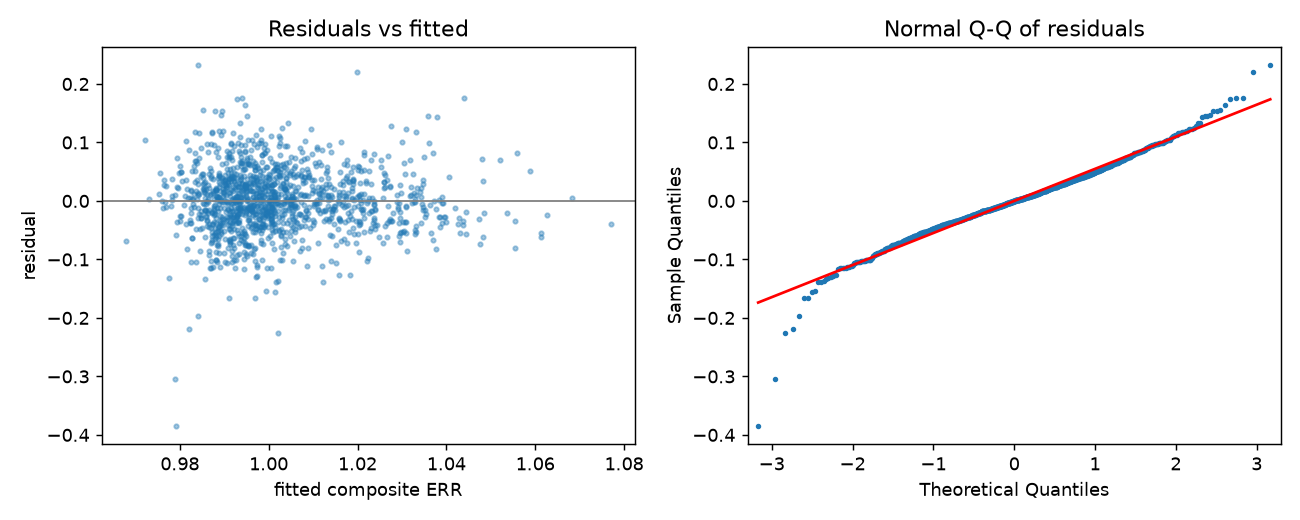
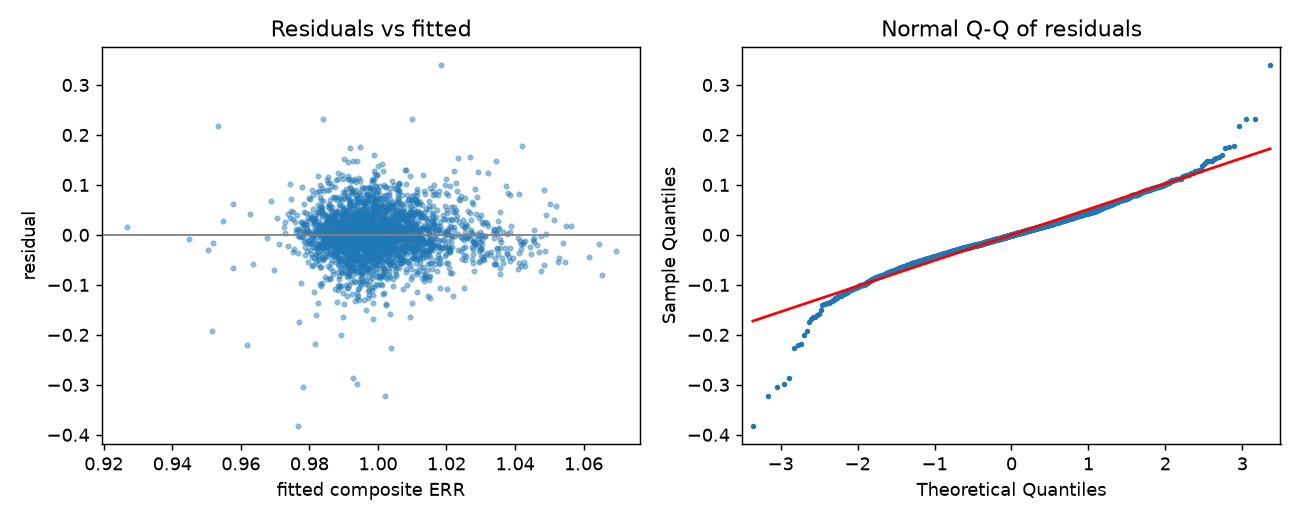
Rerun ERR model with teaching fix

diff --git a/docs/err_model_report.md b/docs/err_model_report.md
@@ -4,111 +4,115 @@ _Generated by `python -m analysis.err_model` from the live data in data/hrrp.duc
 
 ## Data
 
-- Outcome: composite ERR (discharge-weighted average of the six FY2026 ERRs). Mean 1.0023, SD 0.0570.
+- Outcome: composite ERR (discharge-weighted average of the six FY2026 ERRs). Mean 1.0001, SD 0.0532.
 
-- Hospitals with a composite ERR: 2,937. Used in the models (no missing predictors): **1,301**.
+- Hospitals with a composite ERR: 2,937. Used in the models (no missing predictors): **2,576**.
 
-- Missing values that removed hospitals: log2_beds 10, teaching 1,592, ownership 0, dual_10pp 0, income_10k 44, age65_5pp 44, star_rating 328.
+- Missing values that removed hospitals: log2_beds 10, teaching 10, ownership 0, dual_10pp 0, income_10k 44, age65_5pp 44, star_rating 328.
 
 - Effects are shown as **% of expected readmissions** (an ERR change of 0.01 = 1%).
 
 ## Main model (OLS, HC3 robust standard errors, without star rating)
 
-R² = 0.074, adjusted R² = 0.069, n = 1,301.
+R² = 0.069, adjusted R² = 0.066, n = 2,576.
 
 | term | coef | ci_low | ci_high | p_value |
 |---|---|---|---|---|
-| teaching hospital | 0.4905 | 0.4727 | 0.5083 | 0.0000 |
-| For-profit (vs nonprofit) | 0.0262 | 0.0183 | 0.0340 | 0.0000 |
-| Government (vs nonprofit) | -0.0031 | -0.0117 | 0.0055 | 0.4802 |
-| Physician-owned (vs nonprofit) | 0.0069 | -0.0343 | 0.0482 | 0.7413 |
-| beds (per doubling) | -0.0003 | -0.0033 | 0.0028 | 0.8668 |
-| dual-eligible share (+10 pts) | 0.0080 | 0.0058 | 0.0102 | 0.0000 |
-| county income (+$10k) | -0.0014 | -0.0028 | 0.0001 | 0.0642 |
-| county 65+ share (+5 pts) | 0.0027 | -0.0017 | 0.0070 | 0.2253 |
+| teaching hospital | 0.0000 | -0.0049 | 0.0049 | 0.9997 |
+| For-profit (vs nonprofit) | 0.0175 | 0.0123 | 0.0227 | 0.0000 |
+| Government (vs nonprofit) | 0.0006 | -0.0047 | 0.0060 | 0.8119 |
+| Other (vs nonprofit) | -0.0638 | -0.1104 | -0.0173 | 0.0072 |
+| Physician-owned (vs nonprofit) | -0.0211 | -0.0708 | 0.0285 | 0.4040 |
+| beds (per doubling) | 0.0024 | 0.0005 | 0.0044 | 0.0129 |
+| dual-eligible share (+10 pts) | 0.0079 | 0.0063 | 0.0094 | 0.0000 |
+| county income (+$10k) | -0.0014 | -0.0023 | -0.0004 | 0.0056 |
+| county 65+ share (+5 pts) | 0.0013 | -0.0011 | 0.0038 | 0.2866 |
 
 
 ### In plain English
 
-- Holding the other factors fixed, being a teaching hospital (any residents) vs not goes with readmissions about 49.05% higher relative to expected (95% CI +47.27% to +50.83%; clearly different from zero).
-- Holding the other factors fixed, For-profit ownership (vs nonprofit) goes with readmissions about 2.62% higher relative to expected (95% CI +1.83% to +3.40%; clearly different from zero).
-- Holding the other factors fixed, Government ownership (vs nonprofit) goes with readmissions about 0.31% lower relative to expected (95% CI -1.17% to +0.55%; not distinguishable from zero).
-- Holding the other factors fixed, Physician-owned ownership (vs nonprofit) goes with readmissions about 0.69% higher relative to expected (95% CI -3.43% to +4.82%; not distinguishable from zero).
-- Holding the other factors fixed, twice as many beds goes with readmissions about 0.03% lower relative to expected (95% CI -0.33% to +0.28%; not distinguishable from zero).
-- Holding the other factors fixed, a 10-percentage-point higher share of dual-eligible (Medicare + Medicaid) patients goes with readmissions about 0.80% higher relative to expected (95% CI +0.58% to +1.02%; clearly different from zero).
-- Holding the other factors fixed, $10,000 higher county median household income goes with readmissions about 0.14% lower relative to expected (95% CI -0.28% to +0.01%; not distinguishable from zero).
-- Holding the other factors fixed, a 5-percentage-point higher share of county residents aged 65+ goes with readmissions about 0.27% higher relative to expected (95% CI -0.17% to +0.70%; not distinguishable from zero).
+- Holding the other factors fixed, being a teaching hospital (any residents) vs not goes with readmissions about 0.00% higher relative to expected (95% CI -0.49% to +0.49%; not distinguishable from zero).
+- Holding the other factors fixed, For-profit ownership (vs nonprofit) goes with readmissions about 1.75% higher relative to expected (95% CI +1.23% to +2.27%; clearly different from zero).
+- Holding the other factors fixed, Government ownership (vs nonprofit) goes with readmissions about 0.06% higher relative to expected (95% CI -0.47% to +0.60%; not distinguishable from zero).
+- Holding the other factors fixed, Other ownership (vs nonprofit) goes with readmissions about 6.38% lower relative to expected (95% CI -11.04% to -1.73%; clearly different from zero).
+- Holding the other factors fixed, Physician-owned ownership (vs nonprofit) goes with readmissions about 2.11% lower relative to expected (95% CI -7.08% to +2.85%; not distinguishable from zero).
+- Holding the other factors fixed, twice as many beds goes with readmissions about 0.24% higher relative to expected (95% CI +0.05% to +0.44%; weak evidence).
+- Holding the other factors fixed, a 10-percentage-point higher share of dual-eligible (Medicare + Medicaid) patients goes with readmissions about 0.79% higher relative to expected (95% CI +0.63% to +0.94%; clearly different from zero).
+- Holding the other factors fixed, $10,000 higher county median household income goes with readmissions about 0.14% lower relative to expected (95% CI -0.23% to -0.04%; clearly different from zero).
+- Holding the other factors fixed, a 5-percentage-point higher share of county residents aged 65+ goes with readmissions about 0.13% higher relative to expected (95% CI -0.11% to +0.38%; not distinguishable from zero).
 
 ### Does it hold up? (sensitivity checks)
 
 | term | main | by-state clusters | discharge-weighted | with star |
 |---|---|---|---|---|
-| teaching hospital | +49.05% (p=0.000) | +49.05% (p=0.000) | +50.42% (p=0.000) | +52.95% (p=0.000) |
-| For-profit (vs nonprofit) | +2.62% (p=0.000) | +2.62% (p=0.000) | +2.81% (p=0.000) | +1.46% (p=0.000) |
-| Government (vs nonprofit) | -0.31% (p=0.480) | -0.31% (p=0.572) | -0.66% (p=0.294) | -0.79% (p=0.049) |
-| Physician-owned (vs nonprofit) | +0.69% (p=0.741) | +0.69% (p=0.711) | -0.08% (p=0.986) | -0.20% (p=0.921) |
-| beds (per doubling) | -0.03% (p=0.867) | -0.03% (p=0.885) | -0.29% (p=0.527) | -0.08% (p=0.580) |
-| dual-eligible share (+10 pts) | +0.80% (p=0.000) | +0.80% (p=0.000) | +1.00% (p=0.000) | +0.30% (p=0.005) |
-| county income (+$10k) | -0.14% (p=0.064) | -0.14% (p=0.274) | -0.31% (p=0.006) | +0.10% (p=0.153) |
-| county 65+ share (+5 pts) | +0.27% (p=0.225) | +0.27% (p=0.427) | +0.39% (p=0.255) | -0.04% (p=0.831) |
+| teaching hospital | +0.00% (p=1.000) | +0.00% (p=1.000) | -0.27% (p=0.542) | -0.09% (p=0.718) |
+| For-profit (vs nonprofit) | +1.75% (p=0.000) | +1.75% (p=0.001) | +2.43% (p=0.000) | +0.84% (p=0.001) |
+| Government (vs nonprofit) | +0.06% (p=0.812) | +0.06% (p=0.859) | -0.33% (p=0.465) | -0.54% (p=0.032) |
+| Other (vs nonprofit) | -6.38% (p=0.007) | -6.38% (p=0.000) | -7.26% (p=0.015) | -2.52% (p=0.085) |
+| Physician-owned (vs nonprofit) | -2.11% (p=0.404) | -2.11% (p=0.125) | -3.54% (p=0.178) | -1.91% (p=0.409) |
+| beds (per doubling) | +0.24% (p=0.013) | +0.24% (p=0.026) | +0.02% (p=0.943) | +0.16% (p=0.088) |
+| dual-eligible share (+10 pts) | +0.79% (p=0.000) | +0.79% (p=0.000) | +1.04% (p=0.000) | +0.30% (p=0.000) |
+| county income (+$10k) | -0.14% (p=0.006) | -0.14% (p=0.097) | -0.23% (p=0.007) | +0.09% (p=0.046) |
+| county 65+ share (+5 pts) | +0.13% (p=0.287) | +0.13% (p=0.600) | +0.34% (p=0.144) | -0.06% (p=0.616) |
 
 
-- Using Medicare **DSH %** instead of the dual-eligible share: +0.55% per 10 points (p=0.000, n=1,193).
+- Using Medicare **DSH %** instead of the dual-eligible share: +0.55% per 10 points (p=0.000, n=2,267).
 
-- Adding **star rating**: -2.12% per star (p=0.000). Read with care, because star ratings include readmission measures, so part of this is the outcome explaining itself.
+- Adding **star rating**: -1.97% per star (p=0.000). Read with care, because star ratings include readmission measures, so part of this is the outcome explaining itself.
 
 ## How much of the variation does social risk explain?
 
-- Social risk alone (dual share, county income, county 65+ share): R² = **0.045**. Dual-eligible share by itself: R² = 0.039.
+- Social risk alone (dual share, county income, county 65+ share): R² = **0.048**. Dual-eligible share by itself: R² = 0.045.
 
-- Shapley split of the main model's R² (0.074): social risk 0.044 (59%), hospital structure 0.030 (41%).
+- Shapley split of the main model's R² (0.069): social risk 0.046 (66%), hospital structure 0.024 (34%).
 
-- With star rating added (R² 0.206): social risk 0.025, hospital structure 0.021, star rating 0.160.
+- With star rating added (R² 0.195): social risk 0.027, hospital structure 0.016, star rating 0.152.
 
 - So roughly 93% of the variation in composite ERR is **not** explained by any of these factors.
 
 ## Is the linear model missing nonlinearity?
 
-- 5-fold cross-validated R²: linear 0.065 (±0.026), gradient-boosted tree 0.067 (±0.018). If the tree isn't clearly better, the linear model is a fair summary.
+- 5-fold cross-validated R²: linear 0.058 (±0.015), gradient-boosted tree 0.070 (±0.021). If the tree isn't clearly better, the linear model is a fair summary.
 
-Permutation importance (drop in R² when a feature is shuffled):
+Permutation importance on a 25% held-out set (drop in R² when a feature is shuffled):
 
 | feature | importance_r2_drop |
 |---|---|
-| dual_10pp | 0.1576 |
-| income_10k | 0.1533 |
-| log2_beds | 0.1045 |
-| age65_5pp | 0.1012 |
-| ownership_For-profit | 0.0707 |
-| ownership_Government | 0.0013 |
-| ownership_Nonprofit | 0.0009 |
-| teaching | 0.0000 |
+| dual_10pp | 0.0767 |
+| income_10k | 0.0457 |
+| log2_beds | 0.0442 |
+| ownership_For-profit | 0.0295 |
+| age65_5pp | 0.0152 |
+| ownership_Nonprofit | 0.0017 |
+| ownership_Other | 0.0000 |
+| ownership_Physician-owned | 0.0000 |
 
 
 ![Partial dependence](figures/err_tree_partial_dependence.png)
 
 ## Assumption checks (main model)
 
-- **Heteroskedasticity:** Breusch-Pagan p = 0.0571. That's why the standard errors are robust (HC3).
+- **Heteroskedasticity:** Breusch-Pagan p = 1.02e-06. That's why the standard errors are robust (HC3).
 
-- **Functional form:** Ramsey RESET p = 0.0636 (a small p means some curvature is missed; compare with the tree above).
+- **Functional form:** Ramsey RESET p = 0.0212 (a small p means some curvature is missed; compare with the tree above).
 
-- **Residual shape:** skew -0.30, excess kurtosis 3.28. With n = 1,301, inference doesn't depend on normality, but heavy tails mean a few hospitals pull hard.
+- **Residual shape:** skew -0.34, excess kurtosis 4.57. With n = 2,576, inference doesn't depend on normality, but heavy tails mean a few hospitals pull hard.
 
-- **Influential hospitals:** 50 with Cook's distance > 4/n.
+- **Influential hospitals:** 103 with Cook's distance > 4/n.
 
 - **Collinearity (VIF; above about 5 is a concern):**
 
 | term | VIF |
 |---|---|
-| teaching hospital | 1.00 |
-| For-profit (vs nonprofit) | 1.04 |
+| teaching hospital | 1.44 |
+| For-profit (vs nonprofit) | 1.06 |
 | Government (vs nonprofit) | 1.06 |
-| Physician-owned (vs nonprofit) | 1.01 |
-| beds (per doubling) | 1.08 |
+| Other (vs nonprofit) | 1.00 |
+| Physician-owned (vs nonprofit) | 1.02 |
+| beds (per doubling) | 1.48 |
 | dual-eligible share (+10 pts) | 1.05 |
-| county income (+$10k) | 1.03 |
-| county 65+ share (+5 pts) | 1.10 |
+| county income (+$10k) | 1.09 |
+| county 65+ share (+5 pts) | 1.11 |
 
 
 ![OLS diagnostics](figures/err_ols_diagnostics.png)
@@ -117,12 +121,12 @@ Permutation importance (drop in R² when a feature is shuffled):
 
 | condition | n | beds (per doubling) | county 65+ share (+5 pts) | county income (+$10k) | dual-eligible share (+10 pts) | teaching hospital |
 |---|---|---|---|---|---|---|
-| AMI | 1283 | +0.19 | +0.11 | -0.06 | +0.38 | +48.81 |
-| CABG | 779 | -0.54 | +0.57 | -0.65 | +0.18 | +53.55 |
-| COPD | 1293 | +0.21 | +0.20 | +0.01 | +0.47 | +48.29 |
-| Heart failure | 1296 | -0.24 | +0.48 | -0.25 | +0.90 | +49.86 |
-| Hip/knee | 1210 | -0.79 | +0.42 | -0.15 | -0.32 | +53.87 |
-| Pneumonia | 1298 | +0.25 | +0.01 | +0.12 | +0.84 | +47.44 |
+| AMI | 2484 | +0.22 | +0.09 | -0.07 | +0.36 | +0.17 |
+| CABG | 1033 | -0.53 | +0.57 | -0.48 | +0.41 | -0.02 |
+| COPD | 2561 | +0.21 | +0.17 | +0.04 | +0.34 | +0.10 |
+| Heart failure | 2563 | +0.01 | +0.34 | -0.18 | +0.88 | +0.10 |
+| Hip/knee | 2307 | +0.05 | -0.07 | -0.17 | -0.28 | +0.60 |
+| Pneumonia | 2569 | +0.42 | -0.07 | +0.02 | +0.83 | -0.35 |
 
 
 ## Where correlation should not be read as cause

diff --git a/docs/data_quality_report.md b/docs/data_quality_report.md
@@ -1,6 +1,6 @@
 # Data-quality report
 
-_Generated 2026-11-02 18:00 UTC by `python -m models.build` from the files in data/raw/ (see data/raw/manifest.json for exact downloads)._
+_Generated 2026-11-02 18:02 UTC by `python -m models.build` from the files in data/raw/ (see data/raw/manifest.json for exact downloads)._
 
 ## Join funnel (cumulative)
 
@@ -49,12 +49,12 @@ Full list: `SELECT * FROM qa.unmatched_ccns`.
 
 | condition | rows | err_reported | err_missing | err_na | readmissions_too_few | discharges_missing | footnote_codes_seen |
 |---|---|---|---|---|---|---|---|
-| ami | 3055 | 1736 | 1319 | 1319 | 496 | 1748 | 1, 7, 5, 29 |
+| ami | 3055 | 1736 | 1319 | 1319 | 496 | 1748 | 29, 7, 1, 5 |
 | cabg | 3055 | 878 | 2177 | 2177 | 515 | 2674 | 1, 7, 29, 5 |
-| copd | 3055 | 2323 | 732 | 732 | 778 | 1503 | 5, 29, 7, 1 |
-| hf | 3055 | 2621 | 434 | 434 | 305 | 731 | 29, 1, 7, 5 |
-| pn | 3055 | 2715 | 340 | 340 | 395 | 727 | 5, 1, 7, 29 |
-| tha_tka | 3055 | 1447 | 1608 | 1608 | 1194 | 2705 | 1, 7, 5, 29 |
+| copd | 3055 | 2323 | 732 | 732 | 778 | 1503 | 1, 29, 5, 7 |
+| hf | 3055 | 2621 | 434 | 434 | 305 | 731 | 5, 29, 7, 1 |
+| pn | 3055 | 2715 | 340 | 340 | 395 | 727 | 29, 1, 7, 5 |
+| tha_tka | 3055 | 1447 | 1608 | 1608 | 1194 | 2705 | 5, 29, 1, 7 |
 
 
 ## Text values turned into NULL
